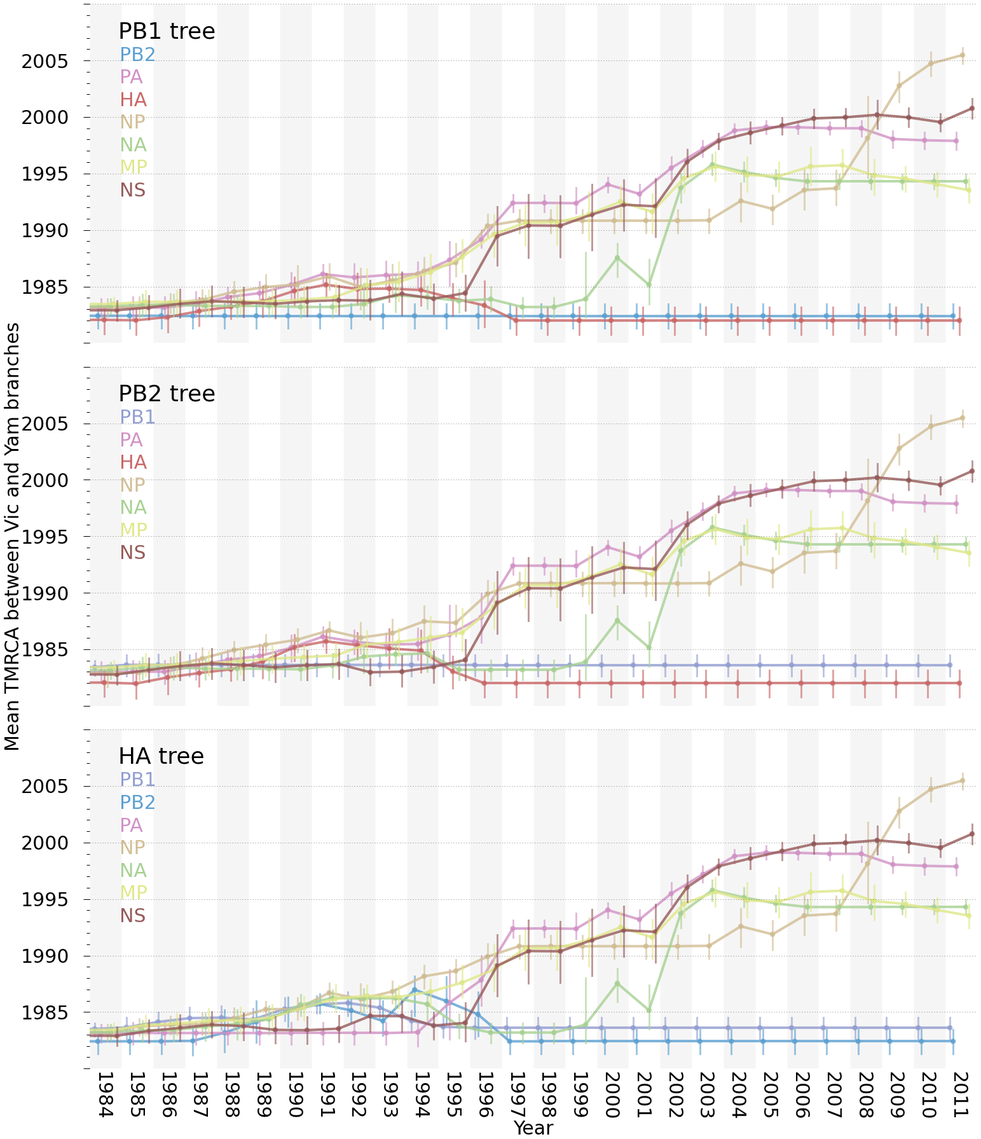
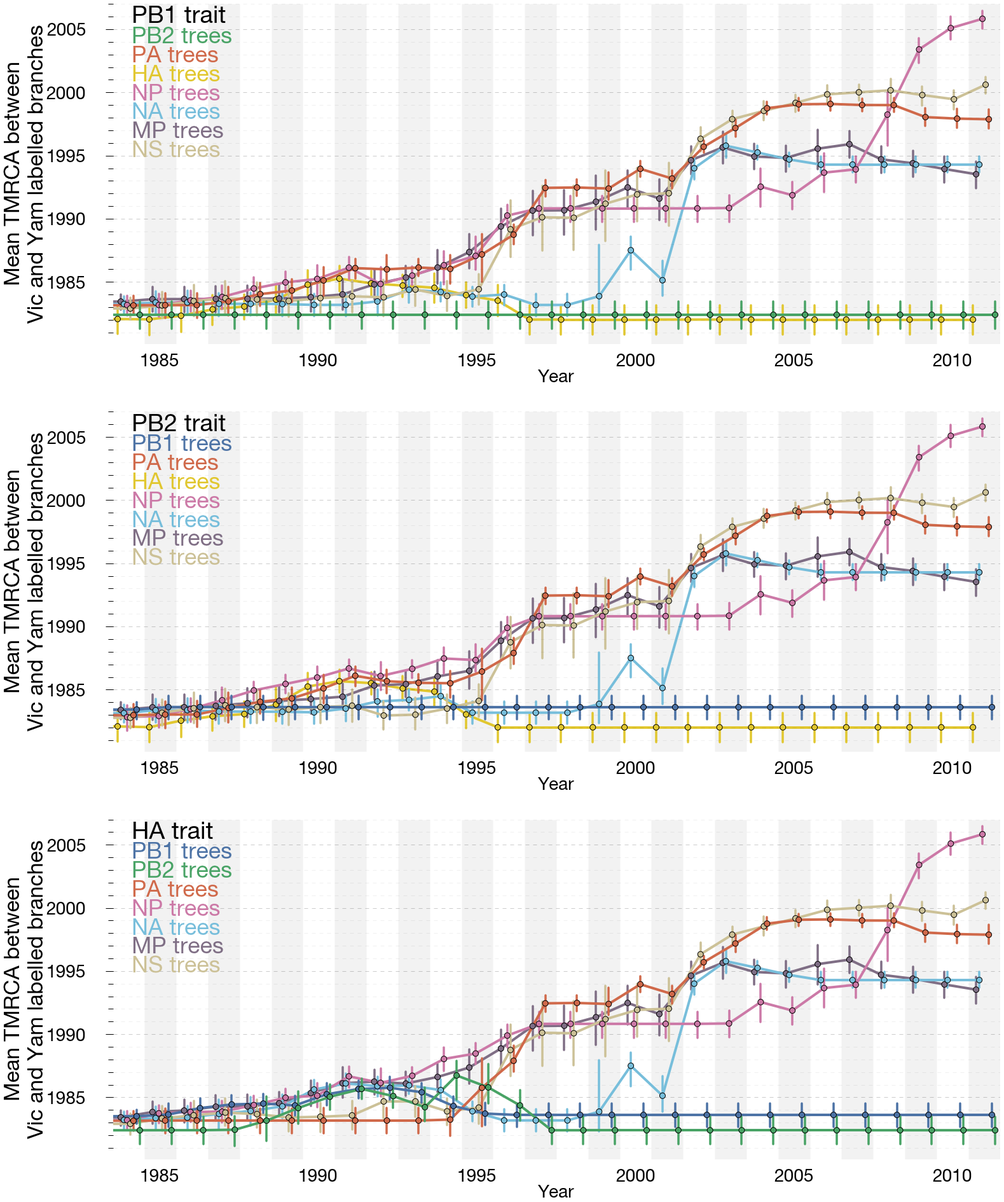
Some changes to text, update to figures.
Text will require a lot of revision.
There's two new figures (SPR and delta TMRCA plots) and a new colour
scheme, which has more contrast and doesn't have faint yellow as a
colour.
Also adding an alternative version of TMRCA over time as per Trevor's
suggestion.

diff --git a/fluB.tex b/fluB.tex
@@ -94,10 +94,10 @@ Both influenza A and B evolve antigenically through time in a process known as a
 
 Currently circulating influenza B viruses are comprised of two distinct lineages -- Victoria and Yamagata (referred to as Vic and Yam, respectively) -- named after strains B/Victoria/02/87 and B/Yamagata/16/88, that are thought to have genetically diverged in HA around 1983 \cite{rota1990}. 
 These two lineages possess antigenically distinct HA surface glycoproteins allowing them to co-circulate in the human population.
-All other influenza B segments also show a split around that time (our combined estimate across all segments place it \textit{circa} 1982.95 (95\% highest posterior density 1981.53--1984.21) figure \ref{TMRCAhpd}), although the numbers of strains falling on either side of the split are different due to reassortments following the initial split of Yam and Vic lineages in all segments and fixation of one or the other lineage in some segments. \tbc{Save this for results.}
+All other influenza B segments also show a split into two lineages around that time.
 
-Previously, through the use of time-stamped phylogenetic trees, the reassortment history of major clades of influenza B has been analyzed \cite{chen2008}, showing extensive and often complicated patterns of reassortment between all segments of influenza B viruses both between and within Vic and Yam lineages.
-\tbc{This analysis was limited because...}
+Previously, through the combined use of time-stamped and maximum likelihood phylogenetic trees evolutionary rate, selective pressures and reassortment history of major clades of influenza B has been analyzed \cite{chen2008}, showing extensive and often complicated patterns of reassortment between all segments of influenza B viruses both between and within Vic and Yam lineages.
+This analysis was limited because it used limited and different numbers of sequences to infer trees of each segment and relied on maximum likelihood phylogenies to infer the history of reassortments.
 Here, we introduce another approach that reveals a evolutionarily intriguing pattern of reassortment in influenza B.
 In this approach, membership to either the Victoria or Yamagata lineage in the tree of one segment is used to label the individual viruses in the tree of the other segments.
 Reassortment events which result in the replacement of one segment lineage by another show up as changes in the discrete trait along a branch and allow the inference of parameters related to the subtree descended from the node displaying a changed trait (Figure \ref{methodFig}).
@@ -119,11 +119,9 @@ In the example above tip number 6 is determined to be such a reassortant. \tbc{G
 
 \section*{Methods}
 
-\subsection*{Sequences and subtyping}
+\subsection*{Sequences and lineage assignment}
 
-\tbc{Be careful with the word `subtyping'.}
-
-We compiled a dataset of 452 complete influenza B genomes from GISAID \cite{GISAID} \tbc{dating from 1984(?) to 2011(?)}. 
+We compiled a dataset of 452 complete influenza B genomes from GISAID \cite{GISAID} dating from 1984 to 2012. 
 Each strain was assigned to a lineage (either Vic or Yam) in each segment by making maximum likelihood trees and looking whether it fell within the subtree containing B/Victoria/02/87 or B/Yamagata/16/88 sequences with the exception of the NS segment (B/Victoria/02/87 was a reassortant and possessed a Yam lineage NS \cite{lindstrom1999}), where B/Czechoslovakia/69/1990 was considered as being representative of Victoria lineage.
 
 Each strain was thus assigned 8 lineages depending on the combination of lineages it belongs to in all trees (for example all segments except for NS in strain B/Victoria/02/87 belong to Vic lineage and can thus be represented as V,V,V,V,V,V,V,Y). 
@@ -133,16 +131,15 @@ Temporally-calibrated phylogenies were recovered for each segment using the Mark
 Here, we modeled the substitution process using the HKY model of nucleotide substitution, with separate HKY models for each of the 3 codon partitions, and additionally included robust counting \cite{obrien2009} to report realized substitutions.
 We modeled the demographic process using a GMRF Bayesian skyride model \cite{minin2008}.
 We used `relaxed' tips for 94 sequences (of which 93 only had year of isolation and 1 had only year and month of isolation) whereby tip date is estimated as a latent variable in the MCMC integration.
-We ran 3 independent MCMC chains, each with 200 million states, sampled every 20000 steps.
-Samples were combined across runs \tbc{?} to give \tbc{XXX} total samples for each segment and convergence was assessed by \tbc{...}.
+We ran 3 independent MCMC chains, each with 200 million states, sampled every 20000 steps and discarded the first 10\% of the MCMC states as burn-in.
+Samples were combined across runs to give 27000 total samples for each segment and convergence was assessed by Tracer.
 
-\tbc{This belongs in this section:} Seven of these were then used as discrete states in each of the trees (e.g. PB1 tree had PB2, PA, HA, NP, NA, MP and NS as traits and V or Y as trait values).
-
+Every sequence was assigned 7 discrete traits corresponding to the lineages of all other segments with which a strain was isolated (e.g. PB1 tree had PB2, PA, HA, NP, NA, MP and NS as traits and V or Y as trait values).
 We inferred the ancestral state of lineages in each segment by using discrete traits (asymmetric CTMC matrix with BSSVS \cite{lemey2009}). Because the posterior set of trees have branches labelled with the inferred lineage in all other segments, we can detect inter-lineage reassortments whenever a trait transition is observed (i.e. Y to V or V to Y, see Figure \ref{methodFig}) between a node and its descendant in any segment. 
 In addition, by reconstructing the ancestral state of all other genomic segments jointly we can infer co-reassortment events when more than one trait transition occurs on the same node in a tree.
 
 \subsection*{Measures of diversity}
-We inferred the diversity of each segment over time by finding the oldest most recent common ancestor of all branches existing at yearly intervals, which places an upper boundary on the maximum amount of diversity existing at each time period.
+We inferred the diversity of each segment over time by finding the most recent common ancestor of all branches existing at yearly intervals, which places an upper boundary on the maximum amount of diversity existing at each time period.
 In addition, we calculated mean pairwise TMRCA between branches inferred to be in virions possessing Vic and Yam lineage PB1, PB2 and HA.
 This gave us an averaged measure of how much a particular segment reassorts with respect to PB1, PB2 and HA segments.
 If Vic and Yam lineages of PB1, PB2 and HA segments were to be considered as being separate populations this measure would be equivalent to `between population' diversity.
@@ -151,11 +148,11 @@ We also calculated the total amount of evolutionary time each segment has spent 
 This gives a measure of how successful, over long periods of time, each particular PB1-PB2-HA constellation has been.
 
 \subsection*{Tree to tree similarities}
-In order to get a measure of tree to tree similarity we first extracted 1000 (sampling frequency roughly equal to 1 tree/180000 MCMC states) trees from the posterior distributions of trees of each segment.
+In order to get a measure of tree to tree similarity we first extracted 900 trees from the posterior distributions of trees for each segment.
+These were combined across 3 independent MCMC chains to give a total of 2700 trees.
 Pairwise comparison between each pair of segments was performed by comparing trees at each MCMC state.
 
-(comment - could try normalizing at each tip-tip comparison)
-We express the similarity by referring to 3 descriptive statistics (sum, mean and standard deviation) of the distribution of TMRCA differences ($\Delta$TMRCA) between pairs of tips in the two trees.
+We express the similarity of two trees by referring to the mean of the distribution of TMRCA differences ($\Delta$TMRCA) between pairs of tips in the two trees.
 These parameters are estimated for each pairing of trees at each MCMC state and provides us with 95\% highest posterior density intervals for those parameters, thus giving us the ability to test specific hypotheses regarding similarities between the trees of different segments.
 Our approach exploits the branch scaling used by BEAST \cite{drummond2012}, since the trees are scaled in absolute time and therefore insensitive to variation in nucleotide substitution rates between segments, allowing for direct comparisons between TMRCAs in different trees.
 
@@ -170,11 +167,16 @@ We attempted to estimate linkage disequilibrium (LD) between amino acid sites ac
 We chose the $\chi^{2}_{df}$ statistic \cite{zhao2005} for quantifying LD, as it is equal to the widely used \textit{r$^{2}$} LD statistic at biallelic loci, but also quantifies LD when there are more than two alleles per locus.
 LD was estimated only at loci where each `allele' was represented by at least two isolates and gaps were ignored and not considered as polymorphisms.
 Ignoring gaps in estimating LD was a practical decision based on some sequences missing nucleotides at the beginning and end of sequences.
-However, we did notice at least one polymorphic indel within the HA protein, which is associated with the Vic-Yam split and not with sequence quality.
+However, there is at least one polymorphic indel within the HA protein, which is associated with the Vic-Yam split and not with sequence quality.
 In addition, some influenza B genome constellations have not reassorted for prolonged periods of time and have acquired amino acid substitutions on several segments, resulting in linkage disequilibrium.
-These single-pair associations between sites result in high LD and come from poorly sampled lineages, thus we choose to only focus on alleles that have been sampled at least twice.
+These single site pairs result in high LD and come from poorly sampled lineages, thus we choose to only focus on alleles that have been sampled at least twice.
 
-We also estimated average pairwise LD between proteins by calculating the proportion of site pairs that exhibit LD $\geq$ 0.1.
+We also calculated mean LD for all pairs of segments to quantify associations between different segments.
+
+\subsection*{Confirming findings with a larger dataset using lineage assignment}
+The sequences of all 1433 available sequences of PB1, PB2, HA and NA segments from the same isolates were downloaded from GISAID.
+Neighbour-joining trees of PB1, PB2 and HA segments were made and each sequence assigned to a lineage based on grouping with either B/Victoria/02/87 or B/Yamagata/16/88 sequences.
+Isolates which were not assigned entirely to either the Vic or the Yam lineage across PB1, PB2 and HA segments were extracted.
 
 \section*{Results}
 
@@ -188,7 +190,7 @@ Some viruses with mixed-lineage genomes have become common ancestors to many lat
 
 We find that Vic lineage PA, NP, NA and MP segments have gone extinct (i.e. no sequences from those lineages have been sampled in recent years see Figure \ref{lineageRatiosOverTime}), replaced entirely by the respective segments of Yam lineage in viruses bearing a Vic lineage HA.
 Similarly, Vic lineage NS has become fixed in the viral population as well.
-By looking at the oldest most recent common ancestor of all lineages existing within the tree of each segment at yearly timeslices (see Figure \ref{tmrcaOT}), it is clear that PA, NP, NA, MP and NS segments have undergone periodic losses of diversity, whereby sampled sequences trace their ancestry to increasingly more recent common ancestors.
+By looking at the most recent common ancestor of all lineages existing at yearly timeslices within the tree of each segment (see Figure \ref{tmrcaOT}), it is clear that PA, NP, NA, MP and NS segments have undergone periodic losses of diversity, whereby all sequences sampled more recently trace their ancestry to increasingly more recent common ancestors.
 
 
 \subsection*{PB1, PB2 and HA segments continue to circulate as two lineages and have not reassorted recently}
@@ -196,31 +198,12 @@ Unlike PA, NP, NA, MP and NS segments, which have periodically lost diversity, w
 In addition, there is evidence to suggest that the numbers of sequences that belong to either Vic and Yam lineages of PB1, PB2 and HA segments have been sampled at a ratio close to 0.5 (see Figure \ref{lineageRatiosOverTime}), presumably due to the action of some form of balancing selection, possibly to maintain antigenic diversity.
 
 By measuring the mean pairwise diversity between branches in each tree that were assigned either a Vic or Yam label in other segments, we look for reductions in diversity, which indicate that an inter-lineage reassortment event has taken place.
-In example \ref{ARGexample}, if, over time slices, we measured mean pairwise distance between red and blue branches in tree 1, after they have been reciprocally labelled with each tip's position (with respect to some pre-defined bifurcation) in tree 2, we would find a drop in this measure, since the distance between tip 6 and tip 5 is now shorter and does not go through the root of the tree.
+In example \ref{methodFig}, if, over time slices, we measured mean pairwise distance between red and blue branches in tree 1, after they have been reciprocally labelled with position of each tip in tree 2 (with respect to some pre-defined bifurcation), we would find a drop in this measure, since the distance between tip 6 and tip 5 is now shorter and does not go through the root of the tree.
 Thus, by measuring pairwise distances between differently labelled branches we get a sense of how panmictic different segments are with respect to each other.
 
 If we repeat this procedure for all trees and focus on PB1, PB2 and HA lineage labels, we find that mean pairwise diversity between branches labelled as having for example, a PB1 segment of Vic or Yam lineage in PB2 and HA trees (and other combinations of the 3 trees and their labels), show small drops in diversity initially, but from the 1997 time slice onwards all branches labelled as Vic or Yam have a common ancestor at the root of the tree.
 We also find evidence of co-reassortment in PB1, PB2 and HA segments: in Figure \ref{betweenDiversity} all three graphs become identical after 1997, indicating that the same PB1, PB2 and HA labels have been assigned to the same branches in trees of all other segments.
 Our findings therefore suggest that a single configuration of Yam and Vic lineages of PB1, PB2 and HA segments has been preserved since the split of Vic and Yam lineages and have not reassorted with respect to each other, but rather have co-reassorted as a single unit, from 1997 onwards.
-
-\begin{figure}
-	\centering		
-	\includegraphics[width=0.95\textwidth]{figures/InfB_betweenDiversity.png}
-	\caption{\textbf{Mean pairwise TMRCA between Vic and Yam branches under PB1, PB2 and HA label sets.}
-PB1, PB2 and HA segment labels indicate that these segments show reciprocal preservation of diversity, which dates back to the split of Vic and Yam lineages.
-All other segments show increasingly more recent TMRCAs between branches labelled as Vic and Yam in PB1, PB2 and HA label sets.
-All horizontal lines indicating uncertainty are 95\% highest posterior densities (HPDs).}
-	\label{betweenDiversity}
-\end{figure}
-
-\subsection*{Victoria and Yamagata lineages of PB1-PB2-HA are co-adapted segment complexes}
-
-\tbc{Did you decide to shelve the REPU statistics?  At least in theory, this should be much more convincing that PB1-PB2-HA are held together by selection rather than `mutation' (i.e. due to packaging signals).  REPU should be a stronger argument than figure \ref{betweenDiversity}. .... I see.  You can't do something like REPU if you don't observe any transient reassortants in the first place.  This suggests either that selection is very strong or mutation is very rare.  But later on you mention that `there have been at least 3 sampled mixed-lineage PB1-PB2-HA complex constellations'.  More description of these constellations would be helpful, when they appear and how long they last.  Also report how long the average lineage persists.}
-
-\tbc{Can you reject the hypothesis that PB1 and PB2 stuck to HA stochastically?}
-
-We find that PB1, PB2 and HA segments, in addition to not reassorting across the Vic-Yam lineage boundary recently, form co-reassorting segment complexes derived entirely of Vic or Yam lineage segments.
-Figure \ref{stateTime} shows the sum of branch lengths which were labelled as having entirely Vic, entirely Yam or mixed-lineage PB1, PB2 and HA segments.
 
 \begin{figure}[h]
 	\centering		
@@ -232,13 +215,30 @@ All horizontal lines indicating uncertainty are 95\% highest posterior densities
 	\label{stateTime}
 \end{figure}
 
-Together with Figure \ref{betweenDiversity} it suggests that some inter-lineage reassortment has occured between PB1, PB2 and HA segments soon after the split of Vic and Yam lineages, but the resulting viruses were not fit and did not become the `trunk' of the tree.
-Viruses bearing mixed-lineage PB1-PB2-HA complexes had the following constellations of PB1, PB2 and HA: VVY (B/Bankok/163/1990-like), YVV (B/Nanchang/630/1994-like) and YVY (B/New York/24/1993-like).
-We do not show results for other lineage labels as none of them show this pattern of reciprocally preserved diversity with any other segment.
+
+\subsection*{Victoria and Yamagata lineages of PB1-PB2-HA are co-adapted segment complexes}
+
+\tbc{Did you decide to shelve the REPU statistics?  At least in theory, this should be much more convincing that PB1-PB2-HA are held together by selection rather than `mutation' (i.e. due to packaging signals).  REPU should be a stronger argument than figure \ref{betweenDiversity}. .... I see.  You can't do something like REPU if you don't observe any transient reassortants in the first place.  This suggests either that selection is very strong or mutation is very rare.  But later on you mention that `there have been at least 3 sampled mixed-lineage PB1-PB2-HA complex constellations'.  More description of these constellations would be helpful, when they appear and how long they last.  Also report how long the average lineage persists.}
+
+\tbc{Can you reject the hypothesis that PB1 and PB2 stuck to HA stochastically?}
+
+We find that PB1, PB2 and HA segments, in addition to not reassorting across the Vic-Yam lineage boundary recently, form co-reassorting segment complexes derived entirely of Vic or Yam lineage segments.
+Figure \ref{stateTime} shows the sum of branch lengths which were labelled as having entirely Vic, entirely Yam or mixed-lineage PB1, PB2 and HA segments.
+
+
+
+
+\subsection*{PB1-PB2-HA reassortants are rare and transient}
+Figures \ref{betweenDiversity} and \ref{stateTime} suggests that some inter-lineage reassortment has occured between PB1, PB2 and HA segments soon after the split of Vic and Yam lineages, but the resulting viruses were not fit and did not become the `trunk' of the tree.
+From complete genome data we have identified 3 classes of PB1-PB2-HA reassortants with the following PB1-PB2-HA constellations: VVY (B/Bankok/163/1990-like), YVV (B/Nanchang/630/1994-like) and YVY (B/New York/24/1993-like).
+An additional class of reassortants with a YYV PB1-PB2-HA constellation (B/Waikato/6/2005-like) were found when investigating a larger dataset with only PB1, PB2, HA and NA sequences.
+These reassortants are represented by 16 sequences and were isolated in New Zealand and Australia between June 9 and November 12 in 2005.
+In all cases PB1-PB2-HA reassortants have not persisted for prolonged periods of time and have not been fixed in the influenza B population.
 
 \subsection*{Other segments evolve with considerable independence}
 
 \tbc{Are the observed rates of extinction / co-option fit with the effective population of the flu B population?  I.e. we generally get 10 years back to a common ancestor within a lineage / segment.  Can we think of the extinction of segments as an aspect of there existing a loosely panmictic flu B population for everything but PB1, PB2 and HA?}
+
 
 The reconstructed evolution of Victoria and Yamagata lineages of all segments reveals a considerable degree of autonomy.
 For example, of all the Yamagata lineage segments that were reassorted into Victoria lineage PB1-PB2-HA background giving rise to B/Hong Kong/330/2001-like viruses, most segments went extinct following later reassortments, save for NP, which continued circulating until, at the latest, 2011.
@@ -250,7 +250,7 @@ A more dramatic example can be found in the NS segment, where the Vic lineage ha
 	\caption{\textbf{Oldest TMRCA of all surviving lineages over time.}
 PA, NP, NA, MP and NS segments of influenza B viruses show periodic losses of diversity, indicating lineage turn over.
 PB1, PB2 and HA segments, on the other hand, maintain the diversity dating back to the initial split of Vic and Yam lineages.
-All horizontal lines indicating uncertainty are 95\% highest posterior densities (HPDs). \tbc{I think this would be more intuitive if the y-axis (years) were reversed with 1980 at the top.}}
+All vertical lines indicating uncertainty are 95\% highest posterior densities (HPDs). \tbc{I think this would be more intuitive if the y-axis (years) were reversed with 1980 at the top.}}
 	\label{tmrcaOT}
 \end{figure}
 
@@ -262,33 +262,35 @@ All horizontal lines indicating uncertainty are 95\% highest posterior densities
 	\label{lineageRatiosOverTime}
 \end{figure}
 
-\begin{table}[h]
-	\centering
-	\label{stateTimeTable}
-	\caption{Amount of evolutionary time spent under different PB1-PB2-HA constellations.
-All segments have spent significantly more of their history with entirely Vic or entirely Yam-derived PB1-PB2-HA complexes. \tbc{Seems better in figure form.}}
-	\makebox[\textwidth][c]{
-	\begin{tabular}{ c | c c c c } 
-	\hline
-	Segment						&	PB1				&	PB2				&	PA				&	HA					\\ \hline	
-	Victoria mean 95\% HPDs		&	\textbf{251.21}	&	\textbf{245.13}	&	\textbf{230.51} 	&	\textbf{245.46} 		\\
-								&	234.43--270.60	&	 226.25--264.23	&	212.94--247.24	&	228.94--262.99 		\\
-	Yamagata mean 95\% HPDs		&	\textbf{228.66} 	&	\textbf{229.65} 	&	\textbf{208.38} 	&	\textbf{192.82} 	 	\\
-								&	212.94--244.51	&	211.80--247.79	&	193.28--224.65	&	179.30--207.69		\\
-	Mixed-lineage mean 95\% HPDs	&	\textbf{30.06} 		&	\textbf{25.06} 		&	\textbf{30.90} 		&	\textbf{14.45} 		 	\\
-								&	26.46--34.16		&	20.54--29.69		&	25.22--36.13		&	10.14--18.80			\\
-	\hline
-	Segment							&	NP				&	NA				&	MP				&	NS				\\ \hline	
-	Victoria mean 95\% HPDs			&	\textbf{220.60} 	&	\textbf{226.73} 	&	\textbf{202.38} 	&	\textbf{222.23}	\\
-									&	201.65--241.03	&	210.91--242.12	&	176.77--227.67	&	193.31--249.61 	\\
-	Yamagata mean 95\% HPDs		 	&	\textbf{204.18} 	&	\textbf{192.27} 	&	\textbf{184.13} 	&	\textbf{210.93} 	\\
-									&	188.68--221.73	&	179.28--205.74	&	165.97--204.10	&	190.02--231.61	\\
-	Mixed-lineage mean 95\% HPDs 		&	\textbf{43.66}		&	\textbf{34.05} 		&	\textbf{39.41} 		&	\textbf{49.36} 		\\
-									&	34.67--50.86		&	27.50--40.90		&	29.80---48.90	&	33.49--62.62		\\
+\begin{figure}
+	\centering		
+	\includegraphics[width=0.95\textwidth]{figures/InfB_betweenDiversity.png}
+	\caption{\textbf{Mean pairwise TMRCA between Vic and Yam branches under PB1, PB2 and HA label sets.}
+PB1, PB2 and HA segment labels indicate that these segments show reciprocal preservation of diversity, which dates back to the split of Vic and Yam lineages.
+All other segments show increasingly more recent TMRCAs between branches labelled as Vic and Yam in PB1, PB2 and HA label sets.
+All vertical lines indicating uncertainty are 95\% highest posterior densities (HPDs).}
+	\label{betweenDiversity}
+\end{figure}
 
-	\end{tabular}	
-	}
-\end{table}
+\subsection*{Reassortment rates are not significantly different between PB1, PB2 and HA}
+
+\begin{figure}
+	\centering		
+	\includegraphics[width=0.95\textwidth]{figures/InfB_normalizedApproxSPR.png}
+	\caption{\textbf{Normalized approximate SPR distances between pairs of segments.}
+All vertical lines indicating uncertainty are 95\% highest posterior densities (HPDs).}
+	\label{SPRdistances}
+\end{figure}
+
+
+\begin{figure}
+	\centering		
+	\includegraphics[width=0.95\textwidth]{figures/InfB_normalizedMuDeltaTMRCA.png}
+	\caption{\textbf{Normalized mean $\Delta$TMRCA statistics between pairs of segments.}
+All vertical lines indicating uncertainty are 95\% highest posterior densities (HPDs).}
+	\label{deltaTMRCA}
+\end{figure}
+
 
 \subsection*{Railroad schematic plot of influenza B reassortment history}
 
@@ -302,22 +304,9 @@ All segments have spent significantly more of their history with entirely Vic or
 
 \tbc{Look for signal in the sites analysis for antigenic sites in HA.  These sites can be seen here: https://github.com/trvrb/stem/tree/master/data. Although this analysis will be difficult if LD varies with site-specific substitution rate....}
 
-We collected sites which exhibit high LD ($\chi^{2}_{df}\ge$0.5).
-By performing hierarchical clustering we identify clusters of sites which exhibit similar LD patterns.
-We identify 4 main classes of sites within the clusters:
-(comment - re-identify sequences/clades responsible for pairs of sites with high LD)
-\begin{enumerate}
-	\item Sites that are associated with the split of Vic-Yam lineages in PB1 and PB2 segments.
-	These sites form the largest clusters in our heatmaps and encompass all three segments (PB1, PB2 and HA).
-	PB1 sites 176, 508, PB2 sites 115, 301, 383, 397, 468 and HA sites 91, 163, 270 and 277 are in complete or nearly complete linkage disequilibrium ($\chi^{2}_{df}>$0.97) and are the sites that are fixed and different between Vic and Yam lineages of PB1, PB2 and HA segments.
-	PB1 sites 211, 213 and 214, PB2 sites 382 and 483 and HA sites 96 and 190 are in reduced (but still high) linkage disequilibrium with sites exhibiting high LD due to a combination of homoplastic amino acid substitutions and amino acid sites that have undergone substitutions in either the Vic or the Yam part of the tree some time after the Vic-Yam split.
-	\item Sites associated with the B/Beijing/76/1998 genome, a presumed member of a divergent and poorly sampled lineage.
-	The B/Beijing/76/1998 genome possesses substitutions at PB1 site 547, PB2 sites 26, 55, 75, 238, 371 and 743 and HA sites 100 and 263.
-	\item Sites associated with the B/Ibaraki/2/1985 genome, another presumed member of a poorly sampled and divergent lineage.
-	These sites are: 170, 736 on PB1, site 76 on PB2 and sites 265, 289, 302, 317, 328 on HA.
-	\item Sites which do not show complete PB1-PB2-HA associations and are represented by mostly single isolates with `concerted' substitutions on pairs of segments (PB1-PB2, PB1-HA or PB2-HA), but not all three.
-	We have attempted to minimize the number of these sites by focusing only on alleles that were observed in at least two isolates.
-\end{enumerate}
+
+We perform hierarchical clustering to identify clusters of sites which exhibit similar LD patterns across pairs of segments.
+
 
 \begin{figure}[h]
 	\centering	
